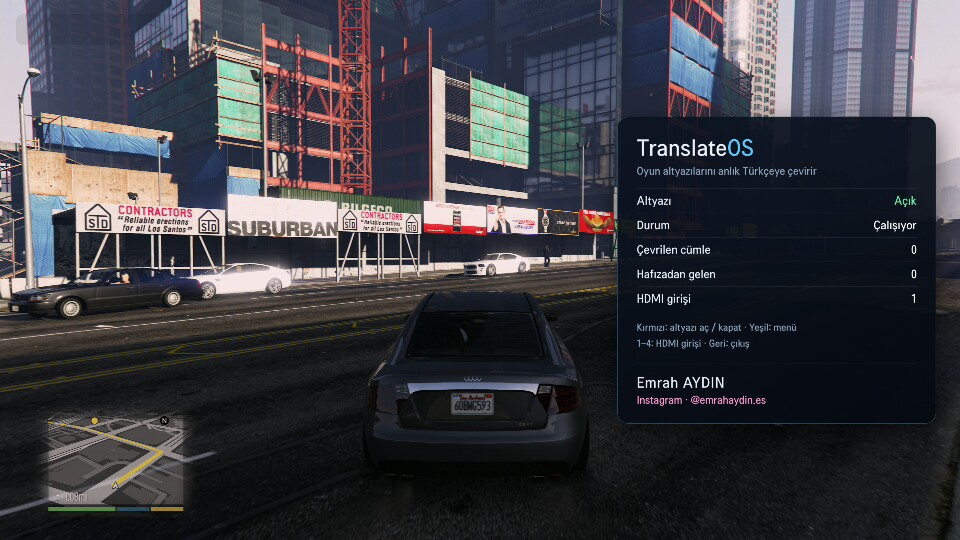
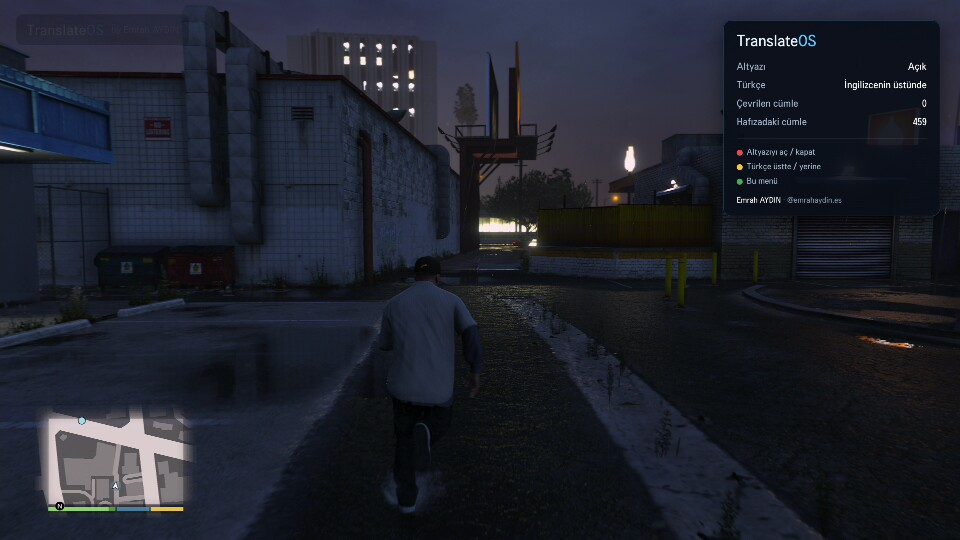
Türkçe üstte/yerine seçimi, sade menü, daha hızlı kırpım
- Sarı tuş: Türkçe İngilizcenin üstünde (senkron kontrolü) ya da yerine; varsayılan üstte
- Menü küçültüldü, sadeleştirildi, 10 sn'de kendiliğinden kapanıyor
- Gemini'ye sadece yazı alanı, gri tonlu ve küçük gönderiliyor (Wi-Fi'da daha hızlı)
- Kısa satırlarda yanlış eşleşen şekil tabanlı kısayol kaldırıldı

diff --git a/service/index.js b/service/index.js
@@ -17,6 +17,7 @@ var CONFIG = {};
 try { CONFIG = JSON.parse(fs.readFileSync(path.join(__dirname, 'config.local.json'), 'utf8')); } catch (e) {}
 var MODEL = CONFIG.model || 'gemini-flash-lite-latest';  // TV'den ölçüm: 0,7–1,0 sn (kalıcı bağlantıyla)
 var KEY_FILE = '/tmp/translateos_app_client_key';
+var placement = CONFIG.placement || 'above';   // 'above': Türkçe İngilizcenin üstünde · 'cover': İngilizcenin yerine
 
 // Altyazı bölgesi (kare oranı). Türkçe kutumuz bunun ÜSTÜNDE durur, bu yüzden bu bölgeye girmez.
 var EN_REGION = { x0: 0.12, x1: 0.88, y0: 0.865, y1: 1.0 };
@@ -325,7 +326,15 @@ function looksLikeSubtitle(sig) {
   return h >= 8 && h <= 48 && w >= 50 && w / h >= 2 && Math.abs(cx - 0.5) < 0.06 &&
     b.fill >= 0.035 && b.fill <= 0.6 && b.share >= 0.6;
 }
-// Gemini'ye giden kırpım: kutu içi parlatılır, bizim Türkçe yazı silinir; böylece model alttaki İngilizceyi okur.
+// Gemini'ye giden kırpım: sadece yazının olduğu alan (+pay), gri tonlu, küçük → Wi-Fi'da daha hızlı yükleme ve işlem.
+// Kutu içi parlatılır, bizim Türkçe yazı silinir; böylece model alttaki İngilizceyi okur.
+function tightBox(img, box, bbox) {
+  if (!bbox) return box;
+  var padX = Math.round(img.width * 0.03), padY = Math.round(img.height * 0.02);
+  var x0 = Math.max(box.x0, Math.floor(bbox.x0 * img.width) - padX), x1 = Math.min(box.x0 + box.w, Math.ceil(bbox.x1 * img.width) + padX);
+  var y0 = Math.max(box.y0, Math.floor(bbox.y0 * img.height) - padY), y1 = Math.min(box.y0 + box.h, Math.ceil(bbox.y1 * img.height) + padY);
+  return { x0: x0, y0: y0, w: x1 - x0, h: y1 - y0 };
+}
 function cropForGemini(img, box, sh) {
   var out = Buffer.alloc(box.w * box.h * 4), d = img.data, sp = shadePx(img, sh);
   for (var y = 0; y < box.h; y++) {
@@ -336,10 +345,12 @@ function cropForGemini(img, box, sh) {
         if (sp.ownText && lum(d, i) > sp.ownThr) { out[o] = out[o + 1] = out[o + 2] = 0; }
         else { out[o] = Math.min(255, d[i] * sp.gain); out[o + 1] = Math.min(255, d[i + 1] * sp.gain); out[o + 2] = Math.min(255, d[i + 2] * sp.gain); }
       } else { out[o] = d[i]; out[o + 1] = d[i + 1]; out[o + 2] = d[i + 2]; }
+      var g = (out[o] * 3 + out[o + 1] * 6 + out[o + 2]) / 10;   // gri ton: altyazı beyaz, renk gerekmez
+      out[o] = out[o + 1] = out[o + 2] = g;
       out[o + 3] = 255;
     }
   }
-  return jpeg.encode({ data: out, width: box.w, height: box.h }, 90).data;
+  return jpeg.encode({ data: out, width: box.w, height: box.h }, 82).data;
 }
 
 // --- Gemini ---
@@ -557,14 +568,14 @@ async function loop() {
   // Okuma süresi: Türkçe, İngilizce erken kalksa bile en az bu kadar ekranda kalır (yeni cümle gelirse onun yerine geçer).
   function readTime(tr) { return Math.max(2500, Math.min(7000, 1800 + String(tr).length * 55)); }
   function union(a, b) { if (!a) return b; if (!b) return a; return { x0: Math.min(a.x0, b.x0), y0: Math.min(a.y0, b.y0), x1: Math.max(a.x1, b.x1), y1: Math.max(a.y1, b.y1) }; }
-  function openBox(msg) { boxOpen = true; if (msg.bbox) boxBbox = union(boxBbox, msg.bbox), msg.bbox = boxBbox; emit(msg); }
+  function openBox(msg) { boxOpen = true; if (msg.bbox) boxBbox = union(boxBbox, msg.bbox), msg.bbox = boxBbox; msg.placement = placement; emit(msg); }
   function closeBox() { peekSince = 0; if (boxOpen) { boxOpen = false; shown = ''; shownSig = null; pendingSince = 0; boxBbox = null; emit({ clear: true }); } }
   // İngilizce, kutunun örttüğü alandan taştıysa (ör. ikinci satır geldi) kutuyu büyüt.
   function growBox(b) {
     if (!boxOpen || !b || !boxBbox) return;
     var m = 0.004;
     if (b.x0 < boxBbox.x0 - m || b.x1 > boxBbox.x1 + m || b.y0 < boxBbox.y0 - m || b.y1 > boxBbox.y1 + m) {
-      boxBbox = union(boxBbox, b); emit({ bbox: boxBbox });
+      boxBbox = union(boxBbox, b); emit({ bbox: boxBbox, placement: placement });
     }
   }
   var latestShownSeq = 0;
@@ -628,7 +639,7 @@ async function loop() {
           // Altyazı belirirken solup parlar: uçuşta aynı yazı için istek varsa yenisini gönderme.
           // (Referans güncellenmez: çeviri dönünce yazı hâlâ farklıysa yeni istek gider; arka arkaya gelen cümle kaçmaz.)
           if (inFlight > 0 && sigDiff(sig, lastReqSig) < 0.25) continue;
-          if (boxOpen && shown && sigDiff(sig, shownSig) > CHANGED) {
+          if (placement === 'cover' && boxOpen && shown && sigDiff(sig, shownSig) > CHANGED) {
             // Kutu altındaki yeni İngilizce soluk okunur ve bozulabilir. Eski Türkçe ekranda KALIR; kutu sadece bir an
             // yarı saydam olur (göz atma), ondan sonraki net kareyle okunur. Ekranda hiç boş siyah kutu olmaz.
             peekSince = Date.now(); peekAckAt = 0; pendingSince = Date.now();
@@ -640,7 +651,7 @@ async function loop() {
           debugFrame(fr.buf, 'ISTEK', true);
           var seq = ++reqSeq, hit = null;
           for (var c = 0; c < sigCache.length; c++) if (sigDiff(sig, sigCache[c].sig) < SAME) { hit = sigCache[c].out; break; }
-          if (!hit) hit = recentHit(sig);
+          // (Not: şekil benzerliğiyle 'aynı cümle' tahmini kısa satırlarda yanlış eşleştirdi; kaldırıldı. Doğruluk önce.)
           lastTiming = 'yakalama ' + fr.capMs + ' ms, çözme ' + (tSig - tDec) + ' ms, imza ' + (Date.now() - tSig) + ' ms';
           if (hit) { stats.cacheHits++; show(seq, sig, hit, null, sig.bbox); }
           else if (Date.now() > backoffUntil && CONFIG.geminiKey && inFlight < 3) {
@@ -659,7 +670,7 @@ async function loop() {
                 if (e.status === 429) backoffUntil = Date.now() + 15000;
                 if (seq === reqSeq) lastSentSig = null;  // tekrar denensin
               }).then(function () { inFlight--; });
-            })(seq, sig, cropForGemini(img, box, sh), Date.now(), sig.bbox);
+            })(seq, sig, cropForGemini(img, tightBox(img, box, sig.bbox), sh), Date.now(), sig.bbox);
           }
         }
       }
@@ -689,6 +700,11 @@ service.register('start', function (message) {
   }
 });
 service.register('stop', function (m) { running = false; m.respond({ returnValue: true }); });
+service.register('setPlacement', function (m) {
+  var p = m.payload && m.payload.placement;
+  if (p === 'above' || p === 'cover') { placement = p; log('yerleşim: ' + (p === 'above' ? 'İngilizcenin üstünde' : 'İngilizcenin yerine')); }
+  m.respond({ returnValue: true, placement: placement });
+});
 service.register('boxRect', function (m) {
   var p = m.payload || {};
   shade = p.none ? null : { x0: p.x0, y0: p.y0, x1: p.x1, y1: p.y1, alpha: p.alpha || BOX_ALPHA, hasText: p.hasText !== false };
@@ -696,10 +712,10 @@ service.register('boxRect', function (m) {
   if (p.peek) peekAckAt = Date.now();
   m.respond({ returnValue: true });
 });
-service.register('stats', function (m) { m.respond(Object.assign({ returnValue: true, model: MODEL, stage: loopStage, running: running, memory: Object.keys(cacheByEn).length }, stats)); });
+service.register('stats', function (m) { m.respond(Object.assign({ returnValue: true, model: MODEL, stage: loopStage, running: running, memory: Object.keys(cacheByEn).length, placement: placement }, stats)); });
 service.register('showInput', function (m) {
   // Uygulamadan çıkarken TV'nin kendi HDMI ekranına güvenli dönüş.
   var id = 'com.webos.app.hdmi' + ((m.payload && m.payload.port) || 1);
   lunaCall('luna://com.webos.applicationManager/launch', { id: id }).then(function (r) { m.respond(r || { returnValue: true }); });
 });
-module.exports = { _test: { looksEnglish: looksEnglish, looksLikeSubtitle: looksLikeSubtitle, regionBox: regionBox, signature: signature, sigDiff: sigDiff, cropForGemini: cropForGemini, decodeJpeg: decodeJpeg, initDecoder: initDecoder, EN_REGION: EN_REGION } };
+module.exports = { _test: { tightBox: tightBox, looksEnglish: looksEnglish, looksLikeSubtitle: looksLikeSubtitle, regionBox: regionBox, signature: signature, sigDiff: sigDiff, cropForGemini: cropForGemini, decodeJpeg: decodeJpeg, initDecoder: initDecoder, EN_REGION: EN_REGION } };

diff --git a/app/app.js b/app/app.js
@@ -2,14 +2,14 @@
 // Oyun sırasında bu ekrandan çıkılmaz (TV'nin kendi HDMI ekranına geçiş kararmaya yol açıyor).
 (function () {
   var W = 1920, H = 1080;
-  var KEY = { BACK: 461, RED: 403, GREEN: 404, OK: 13 };
+  var KEY = { BACK: 461, RED: 403, GREEN: 404, YELLOW: 405, OK: 13 };
   var SVC = 'luna://com.translateos.app.service/';
   var subEl = document.getElementById('sub');
   var statusEl = document.getElementById('status');
   var menuEl = document.getElementById('menu');
   var badgeEl = document.getElementById('badge');
   var bridges = {};
-  var enabled = true, port = 1, statusTimer = null, lastBbox = null, menuTimer = null;
+  var enabled = true, port = 1, statusTimer = null, lastBbox = null, menuTimer = null, menuCloseTimer = null, placement = 'above';
 
   // Her çağrı için tek köprü tutulur (abonelikler çöp toplayıcıya gitmesin).
   function luna(name, uri, params, cb) {
@@ -34,9 +34,17 @@
     var cx = (b.x0 + b.x1) / 2 * W;
     subEl.style.left = cx + 'px';
     subEl.style.transform = 'translateX(-50%)';
-    subEl.style.bottom = Math.max(0, (1 - b.y1) * H - padY) + 'px';
-    subEl.style.minWidth = ((b.x1 - b.x0) * W + 2 * padX) + 'px';
-    subEl.style.minHeight = ((b.y1 - b.y0) * H + 2 * padY) + 'px';
+    if (placement === 'above') {
+      // İngilizcenin hemen üstünde: ikisi birlikte görünür (senkron kontrolü için)
+      subEl.style.bottom = ((1 - b.y0) * H + 10) + 'px';
+      subEl.style.minWidth = '0px';
+      subEl.style.minHeight = '0px';
+    } else {
+      // İngilizcenin yerine: kutu İngilizceyi tamamen örter
+      subEl.style.bottom = Math.max(0, (1 - b.y1) * H - padY) + 'px';
+      subEl.style.minWidth = ((b.x1 - b.x0) * W + 2 * padX) + 'px';
+      subEl.style.minHeight = ((b.y1 - b.y0) * H + 2 * padY) + 'px';
+    }
   }
   // Kutu koyuluğu: Türkçe varken %90; yeni İngilizceye "göz atarken" bir an %50 (servis net okuyabilsin).
   var ALPHA_TEXT = 0.9, ALPHA_PEEK = 0.5, alpha = ALPHA_TEXT, hasText = false;
@@ -91,7 +99,6 @@
     s.setAttribute('src', 'ext://hdmi:' + p);
     v.appendChild(s);
     host.appendChild(v);
-    document.getElementById('m-hdmi').textContent = p;
   }
 
   // --- Ekran koruyucu / uyku: oyun oynanırken TV uyumasın ---
@@ -108,20 +115,21 @@
   // --- Menü ---
   function refreshMenu() {
     luna('stats', SVC + 'stats', {}, function (r) {
-      document.getElementById('m-state').textContent = r.running ? 'Çalışıyor' : 'Durdu';
       document.getElementById('m-calls').textContent = r.calls || 0;
-      document.getElementById('m-hits').textContent = r.cacheHits || 0;
       document.getElementById('m-mem').textContent = r.memory || 0;
     });
-    var m = document.getElementById('m-sub');
-    m.textContent = enabled ? 'Açık' : 'Kapalı';
-    m.className = enabled ? 'on' : 'off';
+    document.getElementById('m-sub').textContent = enabled ? 'Açık' : 'Kapalı';
+    document.getElementById('m-place').textContent = placement === 'above' ? 'İngilizcenin üstünde' : 'İngilizcenin yerine';
   }
   function toggleMenu(show) {
     var open = show === undefined ? menuEl.style.display !== 'block' : show;
     menuEl.style.display = open ? 'block' : 'none';
     clearInterval(menuTimer);
-    if (open) { refreshMenu(); menuTimer = setInterval(refreshMenu, 2000); }
+    clearTimeout(menuCloseTimer);
+    if (open) {
+      refreshMenu(); menuTimer = setInterval(refreshMenu, 2000);
+      menuCloseTimer = setTimeout(function () { toggleMenu(false); }, 10000);   // oyunu kapatmasın
+    }
   }
 
   // --- Başlangıç ---
@@ -134,7 +142,7 @@
   showHdmi(port);
   blockScreenSaver();
   setTimeout(function () { badgeEl.style.opacity = '0'; }, 6000);
-  status('Yeşil: menü · Kırmızı: altyazı aç/kapat', 6000);
+  status('Menü için yeşil tuş', 4000);
 
   // Servise abone ol; servis düşer ya da abonelik koparsa kendiliğinden yeniden bağlan.
   var resubTimer = null;
@@ -153,6 +161,7 @@
       if (r.pending) pendingSub(r.bbox, r.peek);
       else if (r.peek && subEl.style.display !== 'none') { setAlpha(ALPHA_PEEK); reportRect(true); }   // eski Türkçe kalır, kutu bir an açılır
       if (r.peekEnd && subEl.style.display !== 'none') { setAlpha(ALPHA_TEXT); reportRect(); }
+      if (r.placement) placement = r.placement;
       if (r.tr) showSub(r.tr, r.bbox);
       else if (r.bbox && !r.pending && subEl.style.display !== 'none') { lastBbox = r.bbox; placeBox(r.bbox); reportRect(); }  // kutu büyüdü
     });
@@ -170,6 +179,13 @@
       enabled = !enabled;
       if (!enabled) hideSub();
       status(enabled ? 'Altyazı açık' : 'Altyazı kapalı', 2000);
+      if (menuEl.style.display === 'block') refreshMenu();
+      e.preventDefault();
+    } else if (e.keyCode === KEY.YELLOW) {
+      placement = placement === 'above' ? 'cover' : 'above';
+      luna('place', SVC + 'setPlacement', { placement: placement });
+      if (subEl.style.display !== 'none') { placeBox(lastBbox); reportRect(); }
+      status(placement === 'above' ? 'Türkçe: İngilizcenin üstünde' : 'Türkçe: İngilizcenin yerine', 2500);
       if (menuEl.style.display === 'block') refreshMenu();
       e.preventDefault();
     } else if (e.keyCode === KEY.GREEN || e.keyCode === KEY.OK) {

diff --git a/app/index.html b/app/index.html
@@ -32,23 +32,21 @@
   #badge .logo b { color: #5ec8ff; }
   #badge .by { font-size: 20px; color: #9fb3c8; }
 
-  /* Menü (Yeşil tuş) */
+  /* Menü (Yeşil tuş): küçük ve sade */
   #menu {
-    position: absolute; right: 48px; top: 50%; transform: translateY(-50%); width: 560px; display: none;
-    padding: 34px 38px; border-radius: 22px; color: #e9f2fb;
-    background: linear-gradient(160deg, rgba(14,22,36,.94), rgba(6,10,18,.94));
-    border: 1px solid rgba(94,200,255,.35); box-shadow: 0 20px 60px rgba(0,0,0,.6);
+    position: absolute; right: 40px; top: 40px; width: 380px; display: none;
+    padding: 22px 26px; border-radius: 16px; color: #e9f2fb;
+    background: rgba(10,16,26,.92); border: 1px solid rgba(94,200,255,.25);
+    box-shadow: 0 12px 40px rgba(0,0,0,.5);
   }
-  #menu h1 { margin: 0; font-size: 46px; font-weight: 800; letter-spacing: .5px; }
+  #menu h1 { margin: 0 0 14px; font-size: 32px; font-weight: 800; }
   #menu h1 b { color: #5ec8ff; }
-  #menu .tag { margin: 6px 0 22px; color: #8ea6bd; font-size: 22px; }
-  #menu .row { display: flex; justify-content: space-between; padding: 10px 0; border-top: 1px solid rgba(255,255,255,.08); font-size: 24px; }
+  #menu .row { display: flex; justify-content: space-between; padding: 7px 0; font-size: 20px; color: #9fb3c8; }
   #menu .row span:last-child { color: #fff; font-weight: 600; }
-  #menu .on { color: #6ef0a8 !important; } #menu .off { color: #ff8a8a !important; }
-  #menu .keys { margin-top: 18px; font-size: 20px; color: #8ea6bd; line-height: 1.6; }
-  #menu .credit { margin-top: 24px; padding-top: 18px; border-top: 1px solid rgba(94,200,255,.25); }
-  #menu .credit .name { font-size: 30px; font-weight: 800; letter-spacing: 1px; }
-  #menu .credit .ig { font-size: 22px; color: #ff9ad5; margin-top: 4px; }
+  #menu .keys { margin-top: 14px; padding-top: 12px; border-top: 1px solid rgba(255,255,255,.08); font-size: 17px; color: #9fb3c8; line-height: 1.7; }
+  #menu .dot { display: inline-block; width: 12px; height: 12px; border-radius: 50%; margin-right: 8px; vertical-align: middle; }
+  #menu .credit { margin-top: 14px; font-size: 16px; color: #7f93a8; }
+  #menu .credit b { color: #fff; }
 </style>
 </head>
 <body>
@@ -63,18 +61,16 @@
 
 <div id="menu">
   <h1>Translate<b>OS</b></h1>
-  <div class="tag">Oyun altyazılarını anlık Türkçeye çevirir</div>
-  <div class="row"><span>Altyazı</span><span id="m-sub" class="on">Açık</span></div>
-  <div class="row"><span>Durum</span><span id="m-state">—</span></div>
+  <div class="row"><span>Altyazı</span><span id="m-sub">Açık</span></div>
+  <div class="row"><span>Türkçe</span><span id="m-place">İngilizcenin üstünde</span></div>
   <div class="row"><span>Çevrilen cümle</span><span id="m-calls">0</span></div>
-  <div class="row"><span>Hafızadan gelen</span><span id="m-hits">0</span></div>
   <div class="row"><span>Hafızadaki cümle</span><span id="m-mem">0</span></div>
-  <div class="row"><span>HDMI girişi</span><span id="m-hdmi">1</span></div>
-  <div class="keys">Kırmızı: altyazı aç / kapat · Yeşil: menü<br>1–4: HDMI girişi · Geri: çıkış</div>
-  <div class="credit">
-    <div class="name">Emrah AYDIN</div>
-    <div class="ig">Instagram · @emrahaydin.es</div>
+  <div class="keys">
+    <div><span class="dot" style="background:#e5484d"></span>Altyazıyı aç / kapat</div>
+    <div><span class="dot" style="background:#f5c542"></span>Türkçe üstte / yerine</div>
+    <div><span class="dot" style="background:#46a758"></span>Bu menü</div>
   </div>
+  <div class="credit"><b>Emrah AYDIN</b> · @emrahaydin.es</div>
 </div>
 
 <script src="app.js"></script>

diff --git a/README.md b/README.md
@@ -42,12 +42,12 @@ GTA V'te 10 dakika kesintisiz oynanıp TV'den alınan 570 kare tek tek incelendi
 - 🗣 **Hızlı konuşmada da eksiksiz.** Cümleler çeviriden hızlı akarsa Türkçe altyazılar biraz geriden ama sırayla, hiçbiri atlanmadan gelir.
 - ⏱ **Okunabilir süre.** Her Türkçe altyazı, uzunluğuna göre en az 2,5–7 saniye ekranda kalır.
 - 💾 **Cümle hafızası.** Çevrilen her cümle TV'de saklanır; aynı cümle her zaman aynı Türkçeyle çıkar.
-- 📺 **Kumanda ile kontrol.** Kırmızı: altyazı aç/kapat · Yeşil: menü · 1–4: HDMI girişi · Geri: çıkış.
+- 📺 **Kumanda ile kontrol.** Kırmızı: altyazı aç/kapat · Sarı: Türkçe İngilizcenin üstünde / yerine · Yeşil: menü · Geri: çıkış.
 - 😴 **TV uyumaz.** Oyun sırasında ekran koruyucu ve uyku modu devreye girmez.
 
 ## TV menüsü
 
-Yeşil tuşla açılır: altyazı durumu, çevrilen cümle sayısı, hafızadan gelenler, HDMI girişi.
+Yeşil tuşla açılır, 10 saniyede kendiliğinden kapanır: altyazı durumu, Türkçenin yeri, çevrilen ve hafızadaki cümle sayısı.
 
 ![TranslateOS TV menüsü](docs/screenshots/translateos-menu.jpg)
 
